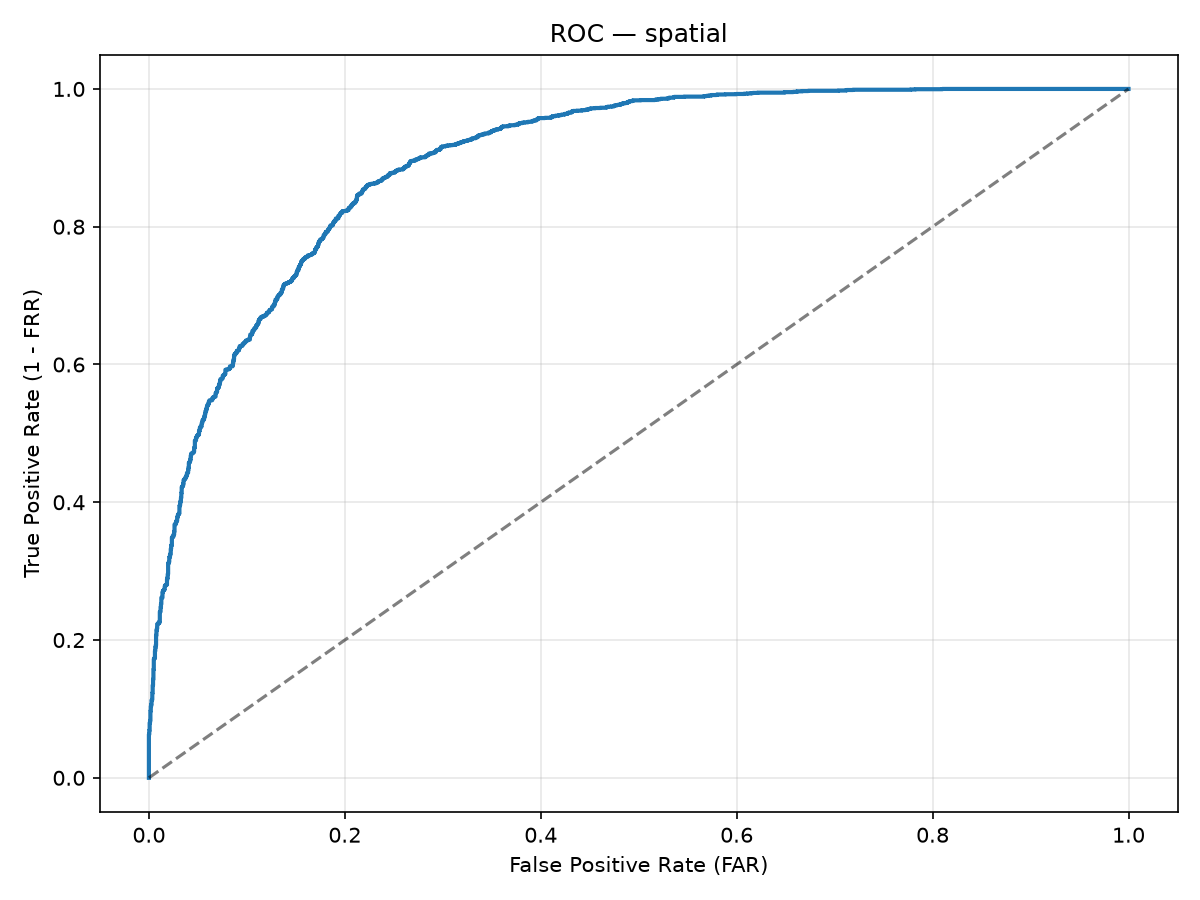
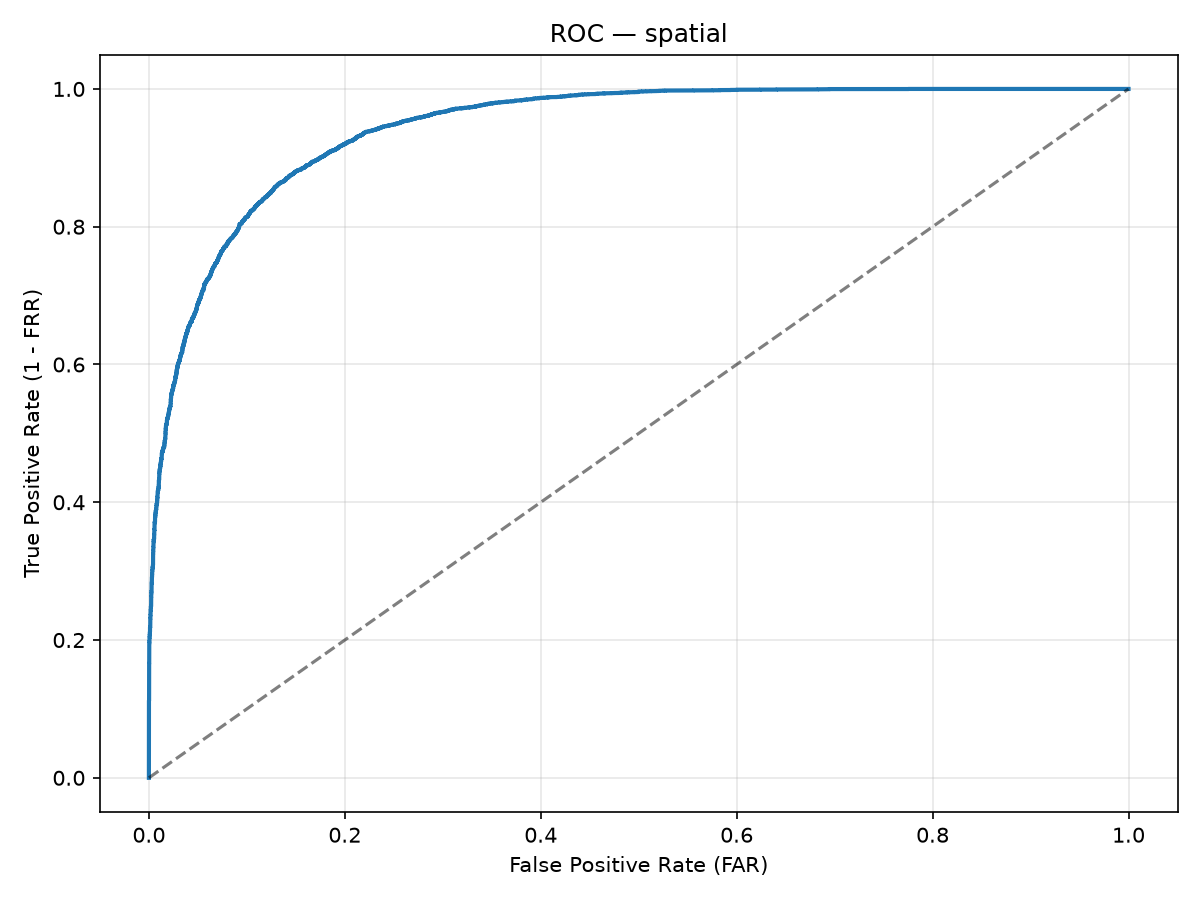
added pictures

diff --git a/README.md b/README.md
@@ -516,6 +516,63 @@ python scripts/benchmark.py --branch temporal --weights <a.pth> \
 
 ---
 
+## Evaluation Figures
+
+Regenerated from the **shipped** weights on the openly available corpora only —
+`spatial_cnn.pth` on CEDAR + BHSig260 + UTSig, `temporal_lstm.pth` on SVC2004 +
+SigComp2011. No licensed data appears in any figure.
+
+> **These are pair-scoring figures, not the headline numbers.** Each probe is
+> scored against a single reference rather than a 5-signature enrollment, which is
+> the harder task described above and runs a few points worse. Read them as the
+> conservative lower bound they are: spatial **13.54%** here against **11.23%**
+> under `--enroll 5`, temporal **12.52%** against **10.26%**.
+
+| | spatial | temporal |
+|---|---|---|
+| EER | 13.54% | 12.52% |
+| calibrated threshold τ | 0.7070 | 0.7130 |
+| FAR / FRR at τ | 12.38% / 15.15% | 11.37% / 14.18% |
+| best dataset | cedar 0.00% | sigcomp_Dutch 5.68% |
+| worst dataset | utsig 36.18% | svc 26.95% |
+
+### Confusion matrices
+
+Counts at the calibrated threshold, over held-out test writers.
+
+| spatial | temporal |
+|---|---|
+| ![Confusion matrix, spatial branch](results/confusion_spatial.png) | ![Confusion matrix, temporal branch](results/confusion_temporal.png) |
+
+The spatial matrix reads 13,921 true rejects and 1,967 false accepts against
+13,481 true accepts and 2,407 false rejects. The two error types are close in
+size, which is the intended calibration — earlier weights sat at FAR 10.12%
+against FRR 21.20%, roughly double, and AGENTS.md requires slack to land on FRR
+only once FAR is already held down.
+
+### ROC and DET curves
+
+DET is the curve to read for a verification system: it plots FAR against FRR on a
+normal-deviate scale, so the operating point and the shape of the trade-off are
+both visible, where ROC compresses the region that matters into the top-left corner.
+
+| | spatial | temporal |
+|---|---|---|
+| **ROC** | ![ROC curve, spatial branch](results/roc_spatial.png) | ![ROC curve, temporal branch](results/roc_temporal.png) |
+| **DET** | ![DET curve, spatial branch](results/det_spatial.png) | ![DET curve, temporal branch](results/det_temporal.png) |
+
+Reproduce any of these with:
+
+```bash
+python scripts/evaluate.py --branch spatial --weights models/weights/spatial_cnn.pth \
+    --data-dir ./data/cedar ./data/bhsig260 ./data/utsig --output-dir results --seed 42
+
+python scripts/evaluate.py --branch temporal --weights models/weights/temporal_lstm.pth \
+    --data-dir ./data/svc2004_task2 ./data/sigcomp2011 --output-dir results --seed 42
+```
+
+---
+
 ## Model Weights & GitHub Releases
 
 Compiled PyTorch model weights (`.pth` checkpoint files) are strictly excluded from Git repository tracking via `.gitignore` to keep the repository lightweight:
